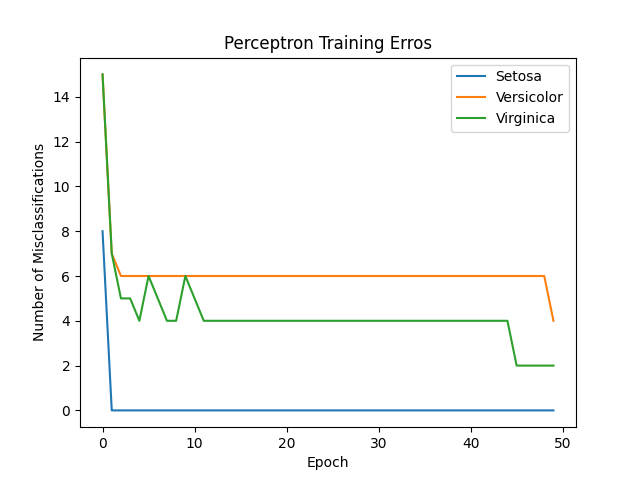
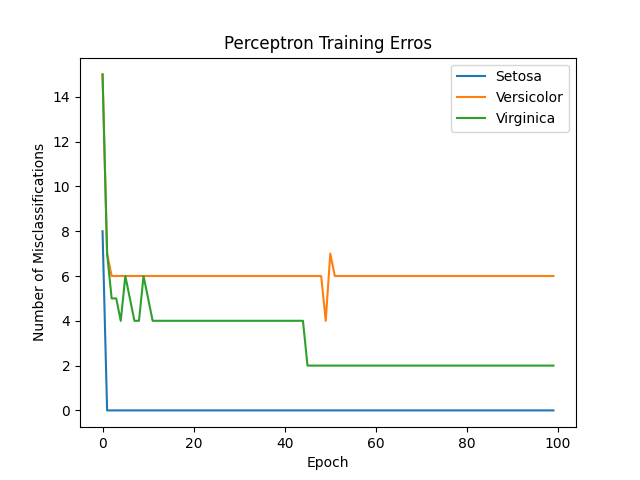
Updated n_iter in perceptron for a better repre4sentation of errors converging

diff --git a/Assignment1/cerberus.py b/Assignment1/cerberus.py
@@ -29,7 +29,7 @@ class Perceptron:
     removed bias by appending a 1 to each row.  
     """
 
-    def __init__(self, eta=0.01, n_iter=50, random_state=1):
+    def __init__(self, eta=0.01, n_iter=100, random_state=1):
         self.eta = eta
         self.n_iter = n_iter
         self.random_state = random_state
